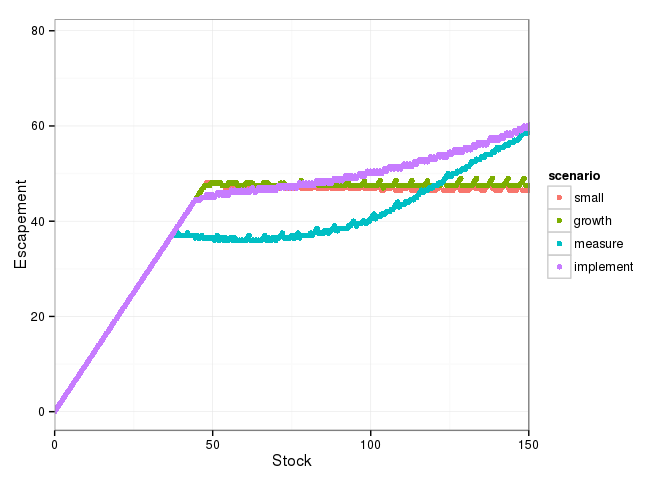
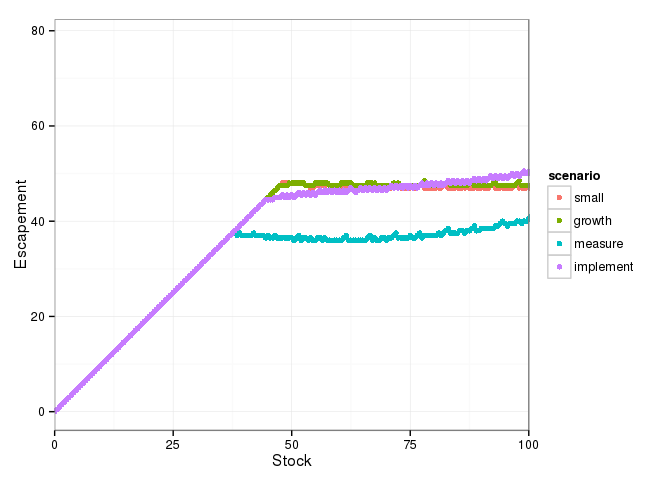
updated with axes zoom to match Sethi

diff --git a/inst/scripts/carl_fig3.md b/inst/scripts/carl_fig3.md
@@ -28,7 +28,7 @@
       ggplot(aes(x = y_grid, y = value, col = scenario)) + 
         geom_point()  + 
         xlab("Stock") + ylab("Escapement") + 
-        coord_cartesian(xlim = c(0, 150)) + 
+        coord_cartesian(xlim = c(0, 100)) + 
         theme_bw()
 
 ![](carl_fig3_files/figure-markdown_strict/unnamed-chunk-3-1.png)
